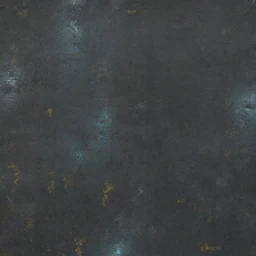
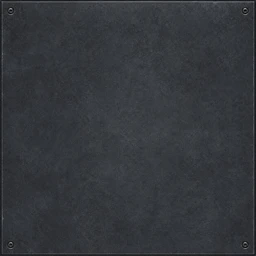
Refine generated course artwork

diff --git a/src/lib/components/BoardTile.svelte b/src/lib/components/BoardTile.svelte
@@ -20,6 +20,21 @@
     south: 180,
     west: 270
   };
+  const oppositeDirection: Record<Direction, Direction> = {
+    north: 'south',
+    east: 'west',
+    south: 'north',
+    west: 'east'
+  };
+  const cornerWalls: readonly {
+    edges: readonly [Direction, Direction];
+    rotation: number;
+  }[] = [
+    { edges: ['north', 'west'], rotation: 0 },
+    { edges: ['north', 'east'], rotation: 90 },
+    { edges: ['south', 'east'], rotation: 180 },
+    { edges: ['south', 'west'], rotation: 270 }
+  ];
 
   const elementPriority: Record<BoardElement['kind'], number> = {
     pit: 70,
@@ -32,16 +47,29 @@
   };
 
   const primaryElement = $derived(
-    [...elements].sort((left, right) => elementPriority[right.kind] - elementPriority[left.kind])[0]
+    [...elements]
+      .filter((element) => element.kind !== 'laser')
+      .sort((left, right) => elementPriority[right.kind] - elementPriority[left.kind])[0]
   );
   const laser = $derived(elements.find((element) => element.kind === 'laser'));
+  const laserIsSource = $derived(
+    !!laser && walls.some((wall) => wall.edge === oppositeDirection[laser.direction])
+  );
   const pusher = $derived(elements.find((element) => element.kind === 'pusher'));
   const dock = $derived(elements.find((element) => element.kind === 'dock'));
+  const joinedWallCorners = $derived(
+    cornerWalls.filter(({ edges }) =>
+      edges.every((edge) => walls.some((wall) => wall.edge === edge))
+    )
+  );
 
-  function assetFor(element: BoardElement | undefined): string {
-    if (!element) return 'floor.webp';
+  function assetFor(element: BoardElement): string {
     if (element.kind === 'repair') return element.option ? 'repair-option.webp' : 'repair.webp';
-    if (element.kind === 'gear') return 'gear-clockwise.webp';
+    if (element.kind === 'gear') {
+      return element.rotation === 'clockwise'
+        ? 'gear-clockwise.webp'
+        : 'gear-counterclockwise.webp';
+    }
     if (element.kind === 'conveyor') {
       if (element.turn) {
         return element.express ? 'conveyor-express-turn.webp' : 'conveyor-turn.webp';
@@ -51,7 +79,7 @@
     return `${element.kind}.webp`;
   }
 
-  function rotationFor(element: BoardElement | undefined): number {
+  function rotationFor(element: BoardElement): number {
     if (
       element?.kind === 'conveyor' ||
       element?.kind === 'pusher' ||
@@ -85,31 +113,31 @@
 
 <div class="board-tile" role="gridcell" aria-label={label} data-coordinate={`${x},${y}`}>
   <img
-    class:counterclockwise={
-      primaryElement?.kind === 'gear' && primaryElement.rotation === 'counterclockwise'
-    }
-    class:turn-left={
-      primaryElement?.kind === 'conveyor' && primaryElement.turn === 'left'
-    }
-    class="tile-art"
-    src={`${base}/assets/board-tiles/${assetFor(primaryElement)}`}
-    style={`--tile-rotation:${rotationFor(primaryElement)}deg`}
+    class="base-art"
+    src={`${base}/assets/board-tiles/floor.webp`}
     alt=""
     draggable="false"
   />
 
-  {#if laser && primaryElement?.kind !== 'laser'}
-    <span
-      class="laser-overlay"
-      class:double={laser.beamCount === 2}
-      class:triple={laser.beamCount === 3}
-      style={`--feature-rotation:${directionDegrees[laser.direction]}deg`}
-      aria-hidden="true"
-    ></span>
+  {#if primaryElement}
+    <img
+      class:turn-left={primaryElement.kind === 'conveyor' && primaryElement.turn === 'left'}
+      class="feature-art"
+      src={`${base}/assets/board-tiles/${assetFor(primaryElement)}`}
+      style={`--tile-rotation:${rotationFor(primaryElement)}deg`}
+      alt=""
+      draggable="false"
+    />
   {/if}
 
-  {#if laser && laser.beamCount > 1}
-    <strong class="beam-count" aria-hidden="true">{laser.beamCount}</strong>
+  {#if laser}
+    <img
+      class="laser-art"
+      src={`${base}/assets/board-tiles/${laserIsSource ? 'laser-source' : 'laser-beam'}-${laser.beamCount}.png`}
+      style={`--feature-rotation:${directionDegrees[laser.direction]}deg`}
+      alt=""
+      draggable="false"
+    />
   {/if}
 
   {#if pusher}
@@ -129,6 +157,16 @@
       draggable="false"
     />
   {/each}
+
+  {#each joinedWallCorners as corner}
+    <img
+      class="wall-corner-art"
+      src={`${base}/assets/board-tiles/wall-corner.png`}
+      style={`--wall-corner-rotation:${corner.rotation}deg`}
+      alt=""
+      draggable="false"
+    />
+  {/each}
 </div>
 
 <style>
@@ -139,11 +177,13 @@
     aspect-ratio: 1;
     overflow: hidden;
     background: #182124;
-    box-shadow: inset 0 0 0 0.5px rgb(134 161 164 / 35%);
   }
 
-  .tile-art,
-  .wall-art {
+  .base-art,
+  .feature-art,
+  .laser-art,
+  .wall-art,
+  .wall-corner-art {
     position: absolute;
     inset: 0;
     width: 100%;
@@ -152,14 +192,24 @@
     user-select: none;
   }
 
-  .tile-art {
+  .base-art,
+  .feature-art,
+  .laser-art {
     object-fit: cover;
+  }
+
+  .feature-art {
+    z-index: 2;
     transform: rotate(var(--tile-rotation));
   }
 
-  .tile-art.counterclockwise,
-  .tile-art.turn-left {
+  .feature-art.turn-left {
     transform: rotate(var(--tile-rotation)) scaleX(-1);
+  }
+
+  .laser-art {
+    z-index: 3;
+    transform: rotate(var(--feature-rotation));
   }
 
   .wall-art {
@@ -168,30 +218,12 @@
     transform: rotate(var(--wall-rotation));
   }
 
-  .laser-overlay {
-    position: absolute;
-    z-index: 3;
-    inset: 8% 45%;
-    transform: rotate(var(--feature-rotation));
-    background: #ff392f;
-    box-shadow: 0 0 0.24rem #ff392f, 0 0 0.52rem rgb(255 31 24 / 90%);
+  .wall-corner-art {
+    z-index: 6;
+    object-fit: contain;
+    transform: rotate(var(--wall-corner-rotation));
   }
 
-  .laser-overlay.double {
-    box-shadow:
-      -0.16rem 0 #ff392f,
-      0.16rem 0 #ff392f,
-      0 0 0.42rem #ff392f;
-  }
-
-  .laser-overlay.triple {
-    box-shadow:
-      -0.22rem 0 #ff392f,
-      0.22rem 0 #ff392f,
-      0 0 0.48rem #ff392f;
-  }
-
-  .beam-count,
   .register-badge,
   .dock-number {
     position: absolute;
@@ -202,17 +234,6 @@
     font-family: 'Space Mono', monospace;
     line-height: 1;
     text-shadow: 0 1px 2px #000, 0 0 4px #000;
-  }
-
-  .beam-count {
-    top: 6%;
-    right: 6%;
-    width: 27%;
-    aspect-ratio: 1;
-    border: 1px solid #ff726b;
-    border-radius: 50%;
-    background: #650a08;
-    font-size: clamp(0.34rem, 0.8vw, 0.7rem);
   }
 
   .register-badge {

diff --git a/static/assets/board-tiles/README.md b/static/assets/board-tiles/README.md
@@ -2,8 +2,9 @@
 
 These raster assets form the first graphical Robo Rally board skin. They were
 created with OpenAI image generation in one cohesive, orthographic industrial
-factory style, then reduced to 256 × 256 for the web. The wall was generated
-against a flat green background and converted to a transparent PNG.
+factory style, then reduced to 256 × 256 for the web. Feature overlays were
+generated against a flat green background and converted to transparent PNG or
+WebP assets so they can share one edge-matched floor.
 
 The shared prompt contract was: a square, strict top-down orthographic,
 high-end painted board-game tile on a quiet, full-bleed dark gunmetal floor.
@@ -12,11 +13,14 @@ roughly 75–90% of the tile and remains recognizable at 32 pixels. The prompts
 explicitly prohibit inset panels, perimeter frames, corner brackets, repeated
 sub-panels, thin lines, and decorative micro-detail, as well as text, logos,
 watermarks, perspective, people, and robots. Each derivative asked for exactly
-one floor, pit, repair site, Option repair site, clockwise gear, standard
-conveyor, express conveyor, standard conveyor turn, express conveyor turn,
-pusher, laser, docking pad, or wall. Directional art is authored facing north
-and rotated by the renderer; counterclockwise and left-turn art is mirrored
-from its generated counterpart.
+one floor, pit, repair site, Option repair site, gear, conveyor, pusher, laser,
+docking pad, or wall. Directional art is authored facing north and rotated by
+the renderer. Clockwise and counterclockwise gears have separate warm/cool
+assets. Express turns and both gear directions reuse the express straight's
+double-chevron artwork so their directional markings have identical weight and
+rendering. Laser strengths 1, 2, and 3 likewise have separate source and beam
+assets, distinguished by both color and width. Left-turn conveyor art is the
+only directional feature mirrored by the renderer.
 
 The images are application assets and are licensed with this GPL-3.0-only
 repository.
